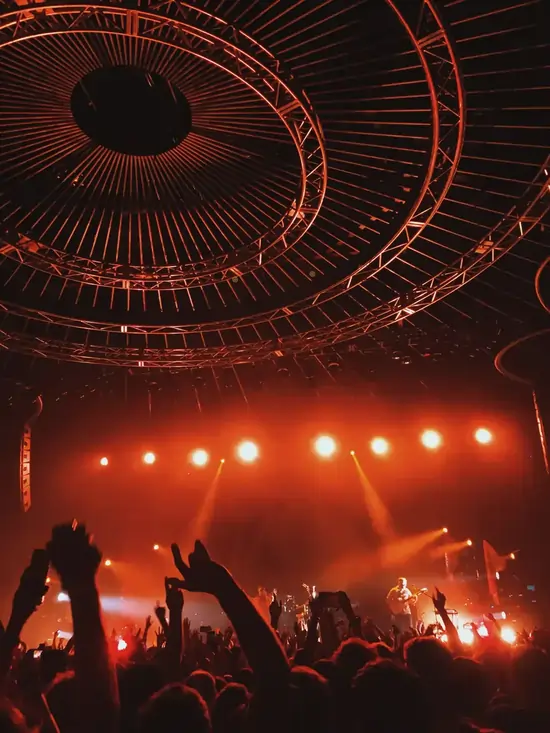
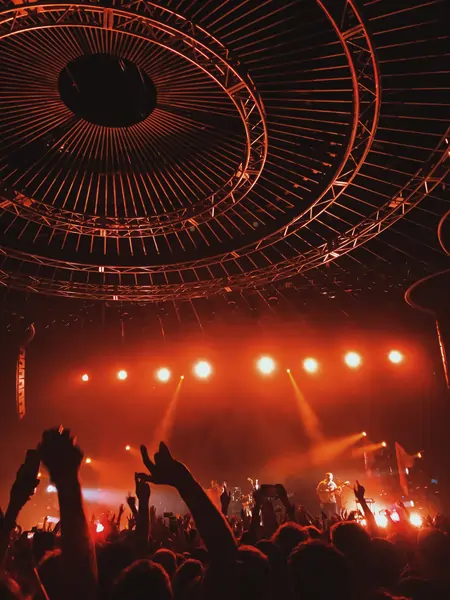
Dernières optimisations des photos

diff --git a/index.html b/index.html
@@ -26,7 +26,7 @@
 
 	<link rel="stylesheet" href="https://fonts.googleapis.com/css2?family=Inter&family=Spectral:ital,wght@0,400;1,300;1,400;1,800&display=swap">
 	
-	<link rel="stylesheet" href="./assets/bootstrap/bootstrap.min.css">
+	<link rel="stylesheet" href="./assets/bootstrap/bootstrap.min.css" defer>
 	<style>
 		body {
 	max-width: 1920px;
@@ -67,7 +67,12 @@
 		width: 20px;
 	}
 	#carouselExampleIndicators {
-		min-height: 659px;
+		aspect-ratio: 1500 / 694;
+	}
+	.carousel-item img {
+  		width: 100%;
+  		height: 100%;
+  		object-fit: cover;
 	}
 	.carousel-control-prev,
 	.carousel-control-next {
@@ -403,13 +408,13 @@
 				</div>
 				<div class="carousel-inner">
 					<div class="carousel-item active">
-						<img src="./assets/images/slider/ryoji-iwata.webp" fetchpriority="high" class="d-block w-100" width="1425" height="659" alt="Photo d'un homme en costume de dos, qui traverse une rue sur un passage piéton">
+						<img src="./assets/images/slider/ryoji-iwata.webp" fetchpriority="high" class="d-block w-100" width="1500" height="694" alt="Photo d'un homme en costume de dos, qui traverse une rue sur un passage piéton">
 					</div>
 					<div class="carousel-item">
-						<img src="./assets/images/slider/nicholas-green.webp" class="d-block w-100" width="1425" height="659" alt="Photo d'un public en joie à un concert, les mains levées vers la scène">
+						<img src="./assets/images/slider/nicholas-green.webp" class="d-block w-100" width="1500" height="694" alt="Photo d'un public en joie à un concert, les mains levées vers la scène">
 					</div>
 					<div class="carousel-item">
-						<img src="./assets/images/slider/edward-cisneros.webp" class="d-block w-100" width="1425" height="659" alt="Photo d'un couple de mariés s'embrassant lors de leur cérémonie de mariage">
+						<img src="./assets/images/slider/edward-cisneros.webp" class="d-block w-100" width="1500" height="694" alt="Photo d'un couple de mariés s'embrassant lors de leur cérémonie de mariage">
 					</div>
 				</div>
 				<button class="carousel-control-prev" type="button" data-bs-target="#carouselExampleIndicators" data-bs-slide="prev">
